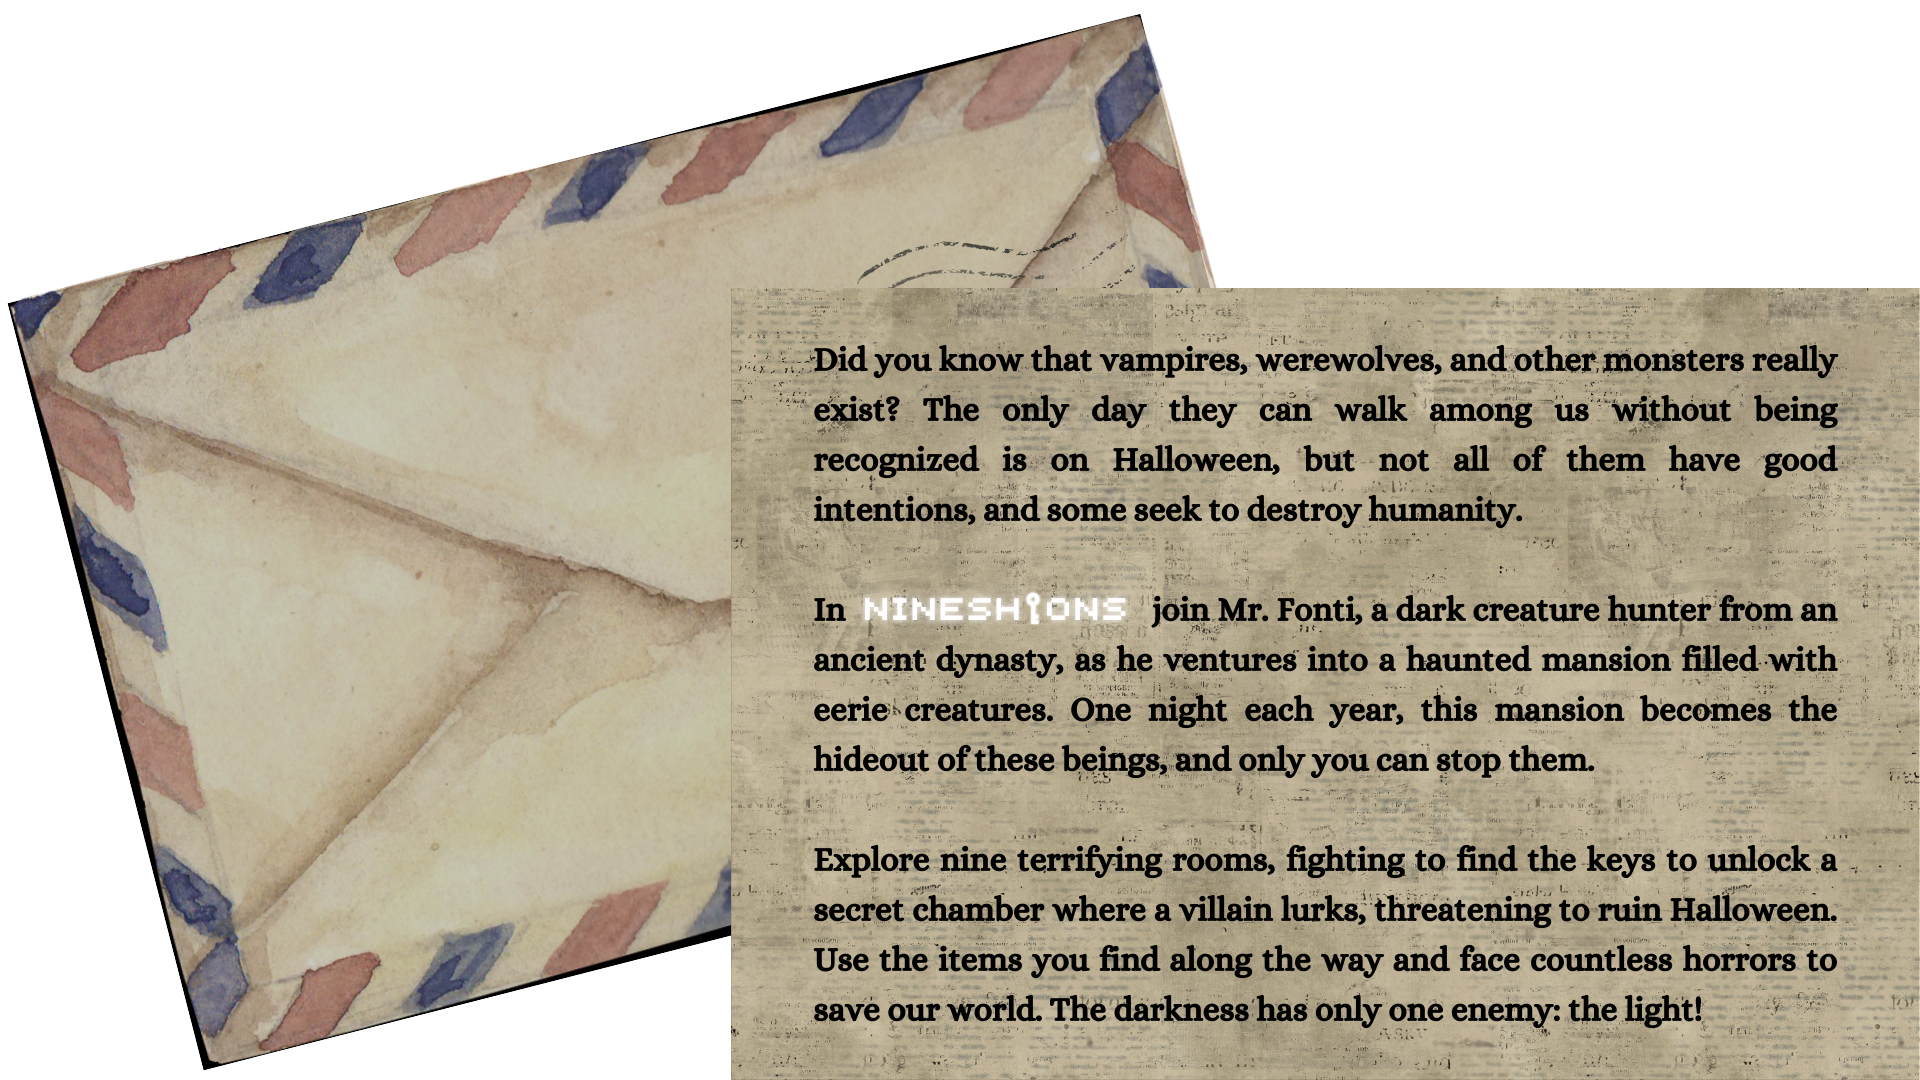
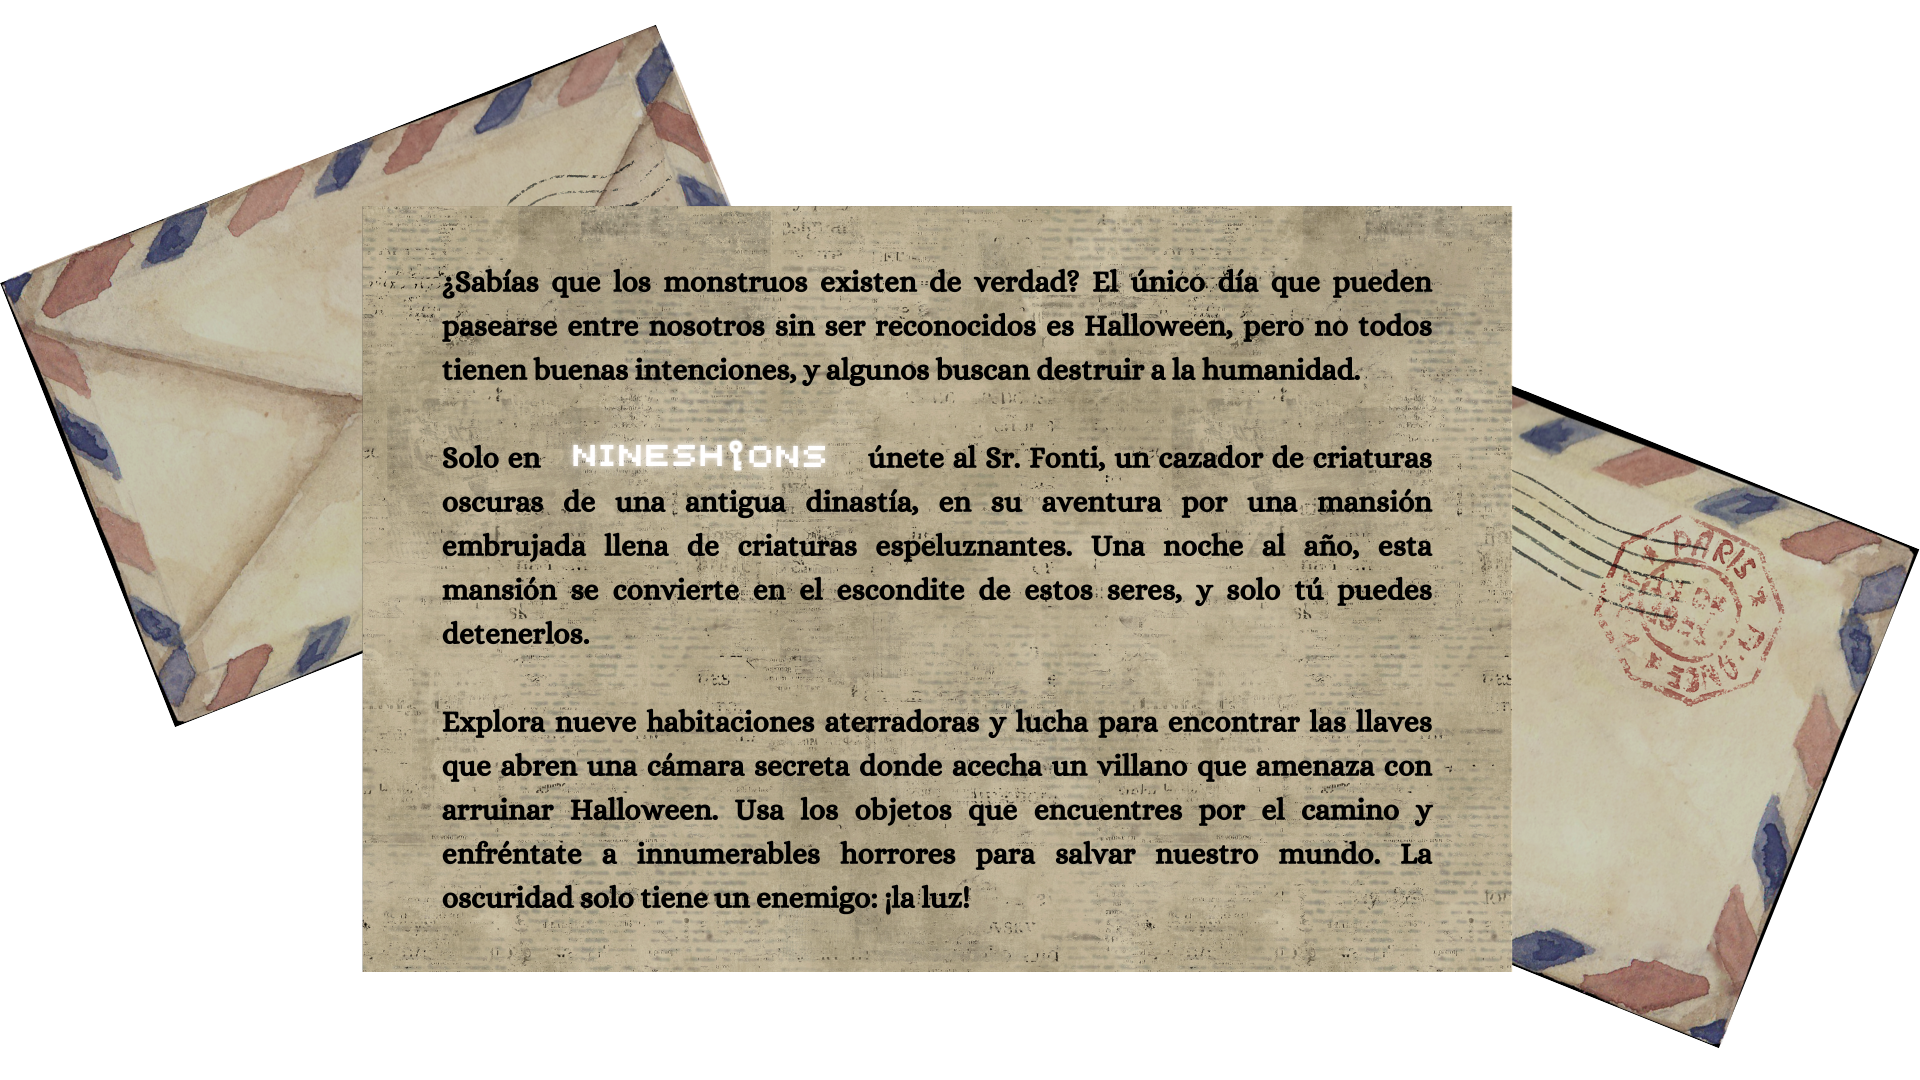
nuevo enemigo

diff --git a/game/js/clases/enemigo.js b/game/js/clases/enemigo.js
@@ -237,21 +237,6 @@ for (let index = 0; index < this.disparosJugador.length; index++) {
   }
 }
 
-
-
-
-
-
-
-
-
-
-
-
-
-
-
-
 class CalbazaExplosiva extends Sprite{
     constructor({
         index =100,
@@ -361,6 +346,241 @@ class CalbazaExplosiva extends Sprite{
            },
            width: 30,
            height: 30,
+       }
+       }
+    checkHorizontalCollisions(){
+          //CHECAR SI HAY COLISIONES EN X
+          for (let index = 0; index < this.bloquesDeColision.length; index++) {
+            const bloqueDeColsion = this.bloquesDeColision[index] ;
+
+            //Comprobar si hay colisiones
+            if (this.hitbox.position.x <= bloqueDeColsion.position.x +bloqueDeColsion.width &&
+                this.hitbox.position.x + this.hitbox.width>= bloqueDeColsion.position.x &&
+                this.hitbox.position.y + this.hitbox.height>= bloqueDeColsion.position.y &&
+                this.hitbox.position.y <= bloqueDeColsion.position.y + bloqueDeColsion.height) {
+                    
+                   ////Si detecta colisión a la derecha regresa el objeto, para que no lo pueda atravesar
+                   //if (this.velocity.x< 0) {
+                   //    const offset = this.hitbox.position.x - this.position.x
+                   //    this.position.x = bloqueDeColsion.position.x +bloqueDeColsion.width-offset
+                   //    break;
+                   //}
+                   ////Si detecta colisión a la izquierda, regresa el objeto, para que no lo pueda atravesar
+                   //if (this.velocity.x> 0) {
+                   //    const offset = this.hitbox.position.x - this.position.x+this.hitbox.width
+                   //    this.position.x = bloqueDeColsion.position.x-offset;
+                   //    break;
+                   //}
+            }
+            
+
+
+        }
+        
+        //Agregar colisiones de disparos
+        for (let index = 0; index < this.disparosJugador.length; index++) {
+           
+            const disparo = this.disparosJugador[index] ;
+
+            //Comprobar si hay colisiones 
+            if (this.hitbox.position.x <= disparo.x +disparo.width &&
+                this.hitbox.position.x + this.hitbox.width>= disparo.x &&
+                this.hitbox.position.y + this.hitbox.height>= disparo.y &&
+                this.hitbox.position.y <= disparo.y + disparo.height) {
+                    
+                //Si recibe un disparo se ejecuta el método 
+                this.recibirGolpe(disparo,index);
+            }
+            
+
+
+        }
+
+    }
+    checkVerticalCollisions(){
+   //CHECAR SI HAY COLISIONES EN Y
+   for (let index = 0; index < this.bloquesDeColision.length; index++) {
+    const bloqueDeColsion = this.bloquesDeColision[index] ;
+
+    //Comprobar si hay colisiones
+    if (this.hitbox.position.x <= bloqueDeColsion.position.x +bloqueDeColsion.width &&
+        this.hitbox.position.x + this.hitbox.width>= bloqueDeColsion.position.x &&
+        this.hitbox.position.y + this.hitbox.height>= bloqueDeColsion.position.y &&
+        this.hitbox.position.y <= bloqueDeColsion.position.y + bloqueDeColsion.height) {
+            
+          // //Si detecta colisión aarriba regresa el objeto, para que no lo pueda atravesar
+          // if (this.velocity.y< 0) {
+          //     this.velocity.y=0;
+          //     const offset = this.hitbox.position.y - this.position.y
+          //     this.position.y = bloqueDeColsion.position.y +bloqueDeColsion.height-offset 
+          //     break;
+          // }
+          // //Si detecta colisión abajo, regresa el objeto, para que no lo pueda atravesar
+          // if (this.velocity.y> 0) {
+          //     this.velocity.y=0;
+          //     const offset = this.hitbox.position.y - this.position.y+this.hitbox.height
+          //     this.position.y = bloqueDeColsion.position.y-offset;
+          //     break;
+          // }
+    }
+    
+
+
+}
+ //Agregar colisiones de las disparos
+
+for (let index = 0; index < this.disparosJugador.length; index++) {
+    const disparo = this.disparosJugador[index] ;
+
+    //Comprobar si hay colisiones
+    if (this.hitbox.position.x <= disparo.x +disparo.width &&
+        this.hitbox.position.x + this.hitbox.width>= disparo.x &&
+        this.hitbox.position.y + this.hitbox.height>= disparo.y &&
+        this.hitbox.position.y <= disparo.y + disparo.height) {
+            
+             //Si recibe un disparo se ejecuta el método
+     
+             this.recibirGolpe(disparo, index);
+
+    }
+    
+
+
+}
+  }
+  applyGravity(){
+//Sólo se aplica gravedad en Y porque es para que baje el objeto
+    //this.velocity.y +=this.gravity;
+    //this.position.y += this.velocity.y;
+  }
+
+  //ACCÍON cuando el enemigo recibe un golpe
+  recibirGolpe(disparo,index){
+
+    if (enemigos.length==1) {
+        if (this.health==1) {
+            console.log("ultimo enemigo")
+            itemsEnJuego.push(new Llave({x:this.position.x,y:this.position.y, bloquesDeColision: bloquesColisiones}))
+            console.log("player", player.experiencia);
+        }
+    }
+
+    ejecutarFuncionItemAleatoria(this);
+
+    console.log("golpe recibido por fantasma")
+    this.health-= disparo.damage;
+    playSound("hurt"); // Reproduce el sonido de dolor
+    this.disparosJugador.splice(index, 1);
+    if (this.health<=0) {
+        enemigos.splice(this.index, 1);
+        player.monstruos_eliminados += 1;
+        player.experiencia += 10;
+    }
+  }
+}
+
+class Reaper extends Sprite{
+    constructor({
+        index =100,
+        health,
+        position,
+        bulletController,
+        bloquesDeColision=[], 
+        puertas=[], 
+        imgResource, frameRate, animations, scale = 1}) 
+        {
+        super({imgResource, frameRate, animations, scale })
+        //propiedades de la clase
+        this.index = index;
+        this.health =health;
+        this.bulletController = bulletController;
+        //Posición en pantallaad
+        this.position =position
+        this.velocity = {
+            x:1,
+            y:1
+        }
+        //Altura y ancho del objeto
+     
+        //creación de hitbox, lo que va a medir los lados de la hitBox
+        this.sides = {
+            bottom : this.position.y + this.height
+        }
+        this.gravity =0.8;
+        this.bloquesDeColision = bloquesDeColision;
+        this.puertas = puertas;
+        this.disparosJugador = disparosJugador
+    }
+
+    takeDamage (damage){
+        this.health -=damage
+    }
+
+    update(player, deltaTime) {
+        const verticalSpeed = 1.0;
+
+        // Movimiento vertical
+        this.position.y += this.velocity.y * deltaTime * 100;
+        const time = Date.now() / 1000; // segundos
+        const centerX = canvas.width / 2; // centro del canvas
+        const amplitude = (canvas.width - this.width) / 2; // amplitud máxima
+        const frequency = 1.2; // frecuencia lenta para que no sea loco
+
+    // Oscilación de lado a lado
+    this.position.x = centerX + Math.sin(time * frequency) * amplitude;
+    
+        // Revisar bordes verticales
+        if (this.position.y <= 0) {
+            this.velocity.y = verticalSpeed; // Bajar
+        } else if (this.position.y + this.height >= canvas.height) {
+            this.velocity.y = -verticalSpeed; // Subir
+        }
+    
+        // Revisar bordes horizontales
+        if (this.position.x <= 0) {
+            this.position.x = 0;
+            this.velocity.x *= -1; // Rebote horizontal
+        } else if (this.position.x + this.width >= canvas.width) {
+            this.position.x = canvas.width - this.width;
+            this.velocity.x *= -1; // Rebote horizontal
+        }
+        
+    
+        // Llamadas existentes en tu método update
+        this.updateHitbox();
+        this.checkHorizontalCollisions();
+        this.applyGravity();
+        this.updateHitbox();
+        this.checkVerticalCollisions();
+       //dibujar tamaño imagen
+        //context.fillStyle = "red";
+        //context.fillRect(this.position.x, this.position.y, this.width, this.height);
+        //// Dibuja el hitbox
+        //context.fillStyle = "blue";
+        //context.fillRect(this.hitbox.position.x, this.hitbox.position.y, this.hitbox.width, this.hitbox.height);
+        
+    }
+    //Método para cambiar de animación
+    switchSprite(name){
+        if (this.image=== this.animations[name].image) return
+
+        this.currentFrame = 0;
+        this.image =this.animations[name].image
+        this.frameRate = this.animations[name].frameRate
+        this.frameBuffer = this.animations[name].frameBuffer
+    }
+
+    //Creación de hitbox y actualiazción
+    updateHitbox() {
+  
+        this.hitbox ={
+           position:{
+               x: this.position.x + 20,
+               y: this.position.y +22
+               
+           },
+           width: 50,
+           height: 150,
        }
        }
     checkHorizontalCollisions(){

diff --git a/game/js/utils/lista_enemigos.js b/game/js/utils/lista_enemigos.js
@@ -241,6 +241,61 @@ function obtenerListaEnemigos(bulletController, enemyBulletController) {
         })
 
     ]
+    const enemigosNivel1=[
+        new  Reaper({
+            //Pasamos los bloques que harán las colisiones con este objeto
+    
+            health: 8,
+            position: {x:500, y:100},
+            bulletController: bulletController,
+            frameRate: 6,
+            imgResource: "../../assets/characters/enemies/ghost/anim-nme-ghost.png",
+            animations:{
+                idleRight:{
+                    frameRate:6,
+                    frameBuffer:4,
+                    loop :true,
+                    imgResource: "../../assets/characters/main_character/IdleRight.png",
+                    
+                },
+                idleLeft:{
+                    frameRate:6,
+                    frameBuffer:4,
+                    loop :true,
+                    imgResource: "../../assets/characters/main_character/IdleLeft.png",
+                },
+                runRight:{
+                    frameRate:8,
+                    frameBuffer:4,
+                    loop :true,
+                    imgResource: "../../assets/characters/main_character/Run.png",
+                },
+                runLeft:{
+                    frameRate:8,
+                    frameBuffer:4,
+                    loop :true,
+                    imgResource: "../../assets/characters/main_character/RunLeft.png",
+                },
+                jumpRight:{
+                    frameRate:9,
+                    frameBuffer:4,
+                    loop :true,
+                    imgResource: "../../assets/characters/main_character/Jump.png",
+                    
+                },
+                jumpLeft:{
+                    frameRate:9,
+                    frameBuffer:4,
+                    loop :true,
+                    imgResource: "../../assets/characters/main_character/JumpLeft.png",
+                    
+                },
+        
+            },
+            scale: 2
+        })
+    ]
+
     ene = [
         [],
         [],
@@ -249,7 +304,7 @@ function obtenerListaEnemigos(bulletController, enemyBulletController) {
         [],
         [],
         [],
-        [],
+        enemigosNivel1, //[],
         enemigosSpawn,
     ]
     

diff --git a/game/js/utils/lista_items.js b/game/js/utils/lista_items.js
@@ -70,7 +70,7 @@ function ShowLinterna(enemigo){
     const funciones = [ShowLinterna, ShowAsistente, ShowBotas];
     
     // Probabilidad del 30% (0.3), ajusta este valor como desees
-    const probabilidadDeDrop = 0.3;
+    const probabilidadDeDrop = 0.2;
 
     if (Math.random() < probabilidadDeDrop) {
         const funcionSeleccionada = funciones[Math.floor(Math.random() * funciones.length)];

diff --git a/game/html/Historia.html b/game/html/Historia.html
@@ -21,7 +21,7 @@
         </nav>
     </nav>
 
-    <h2>Historia</h2>
-    <img src="../assets/web/Carta_NineshionsGrande.png" id="Cartas" alt="carta">
+    <h2>Carta desde Nineshions</h2>
+    <img src="../assets/web/Carta_Nineshions.png" id="Cartas" alt="carta">
 </body>
 </html>

diff --git a/game/js/clases/final_boss.js b/game/js/clases/final_boss.js
@@ -91,8 +91,6 @@ class FinalBoss extends Sprite{
         this.updateHitbox();
         this.checkCollisions();
         this.updateHitbox();
-        this.checkVerticalCollisions();
-    
   
     }
     //Método para cambiar de animación
